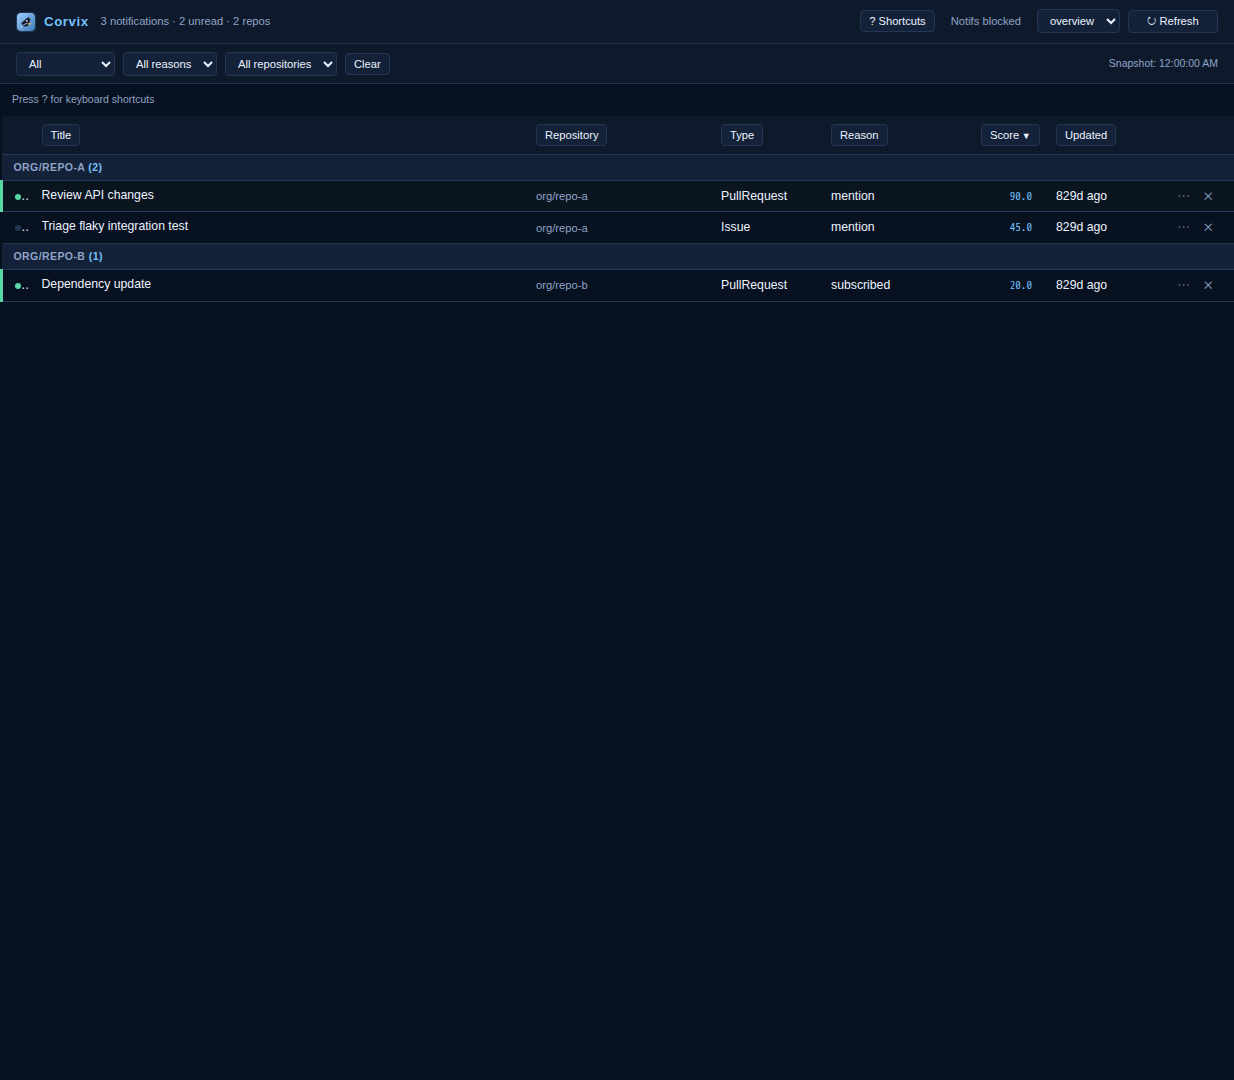
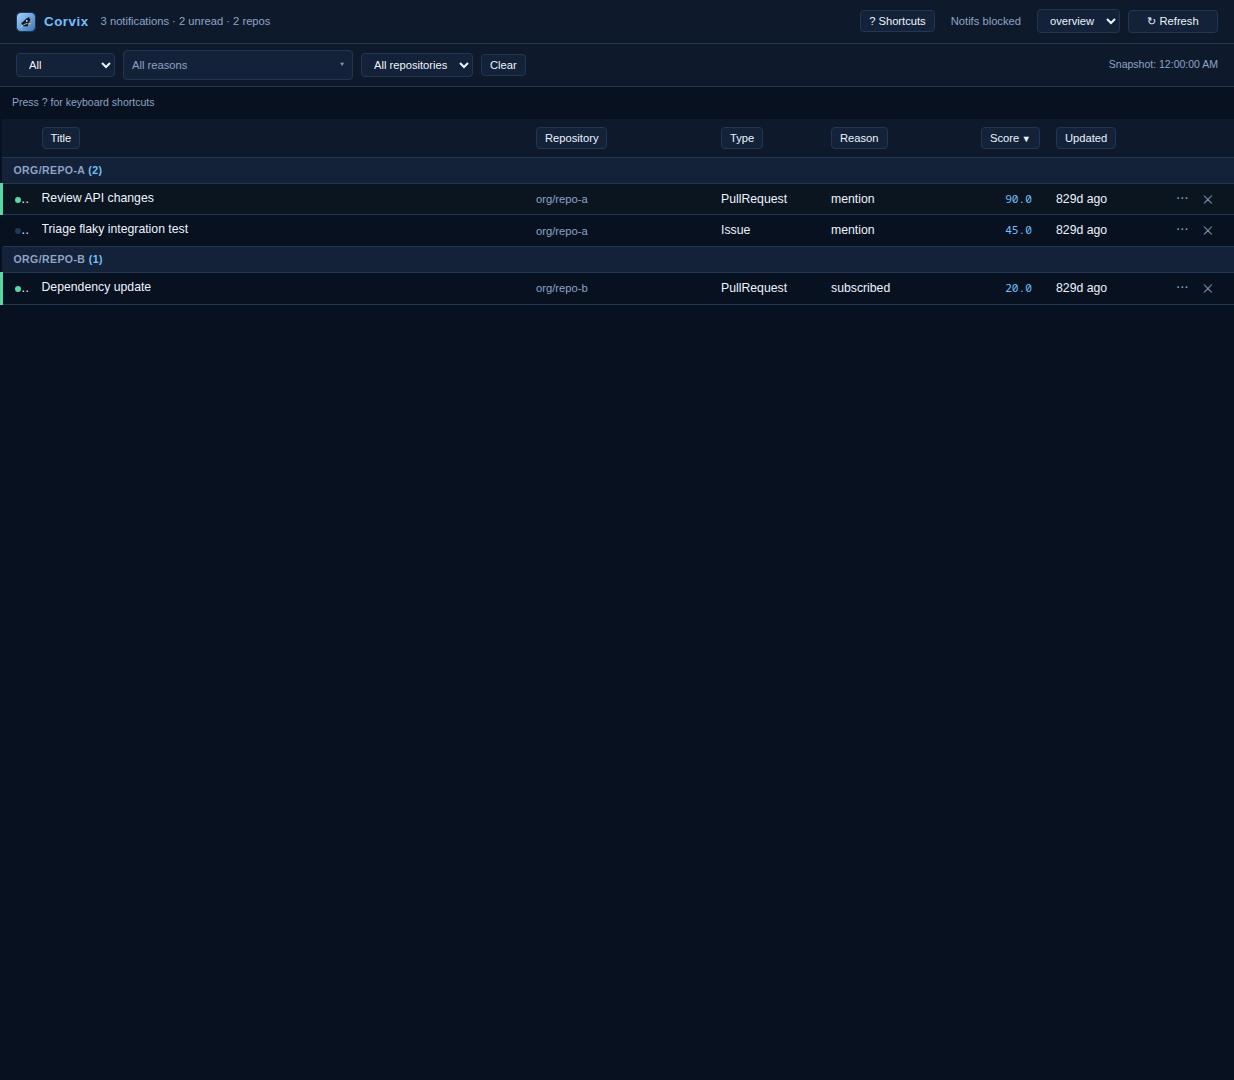
test: cover reason filter clear paths and stabilize frontend test env

Changed region(s): [[0.0, 0.0306, 1.0, 0.275], [0.893, 0.0306, 0.9854, 0.0917]]

diff --git a/frontend/src/components/FilterBar.test.tsx b/frontend/src/components/FilterBar.test.tsx
@@ -71,6 +71,33 @@ describe("FilterBar", () => {
 		]);
 	});
 
+	it("toggles off a selected reason from the reason menu", async () => {
+		const onFilterChange = vi.fn();
+		const user = userEvent.setup();
+
+		render(
+			<FilterBar
+				filters={{ unread: "all", reason: ["subscribed"], repository: "" }}
+				includeRead={true}
+				items={[
+					makeItem({ reason: "mention", repository: "org/a" }),
+					makeItem({
+						thread_id: "2",
+						reason: "subscribed",
+						repository: "org/b",
+					}),
+				]}
+				onFilterChange={onFilterChange}
+				onClearFilters={vi.fn()}
+				generatedAt={null}
+			/>,
+		);
+
+		await user.click(screen.getByLabelText("Reason filter"));
+		await user.click(screen.getByRole("button", { name: "subscribed" }));
+		expect(onFilterChange).toHaveBeenLastCalledWith("reason", []);
+	});
+
 	it("shows chips and allows removing selected reason", async () => {
 		const onFilterChange = vi.fn();
 		const user = userEvent.setup();

diff --git a/frontend/src/test/setup.ts b/frontend/src/test/setup.ts
@@ -39,10 +39,31 @@ Object.defineProperty(globalThis, "open", {
 	value: vi.fn(),
 });
 
+Object.defineProperty(globalThis, "requestAnimationFrame", {
+	writable: true,
+	value: (callback: FrameRequestCallback) =>
+		setTimeout(() => callback(performance.now()), 0),
+});
+
+Object.defineProperty(globalThis, "cancelAnimationFrame", {
+	writable: true,
+	value: (id: ReturnType<typeof setTimeout>) => clearTimeout(id),
+});
+
 if (globalThis.window !== undefined) {
 	Object.defineProperty(globalThis.window, "open", {
 		writable: true,
 		value: globalThis.open,
+	});
+
+	Object.defineProperty(globalThis.window, "requestAnimationFrame", {
+		writable: true,
+		value: globalThis.requestAnimationFrame,
+	});
+
+	Object.defineProperty(globalThis.window, "cancelAnimationFrame", {
+		writable: true,
+		value: globalThis.cancelAnimationFrame,
 	});
 }
 

diff --git a/tests/e2e/test_dashboard_ui.py b/tests/e2e/test_dashboard_ui.py
@@ -115,7 +115,7 @@ def test_sort_order_matches_config(app_page: PageLike) -> None:
 
 
 @pytest.mark.e2e
-def test_filter_clears_when_all_reasons_are_deselected(app_page: PageLike) -> None:
+def test_filter_clears_when_selected_reason_chip_is_removed(app_page: PageLike) -> None:
     expect = pytest.importorskip("playwright.sync_api").expect
 
     rows = app_page.locator("tr.notification-row")
@@ -124,7 +124,24 @@ def test_filter_clears_when_all_reasons_are_deselected(app_page: PageLike) -> No
     reason_filter.click()
     app_page.get_by_role("button", name="subscribed").click()
     expect(rows).to_have_count(1)
-    app_page.get_by_role("button", name="subscribed").click()
+    app_page.get_by_role("button", name="Remove subscribed reason filter").click()
+    expect(rows).to_have_count(3)
+
+
[email redacted].e2e
+def test_filter_clears_when_selected_reason_option_is_toggled_off(app_page: PageLike) -> None:
+    expect = pytest.importorskip("playwright.sync_api").expect
+
+    rows = app_page.locator("tr.notification-row")
+    expect(rows).to_have_count(3)
+
+    reason_filter = app_page.get_by_label("Reason filter")
+    reason_filter.click()
+    reason_options = app_page.get_by_label("Reason options")
+    reason_options.get_by_role("button", name="subscribed", exact=True).click()
+    expect(rows).to_have_count(1)
+
+    reason_options.get_by_role("button", name="subscribed", exact=True).click()
     expect(rows).to_have_count(3)
 
 